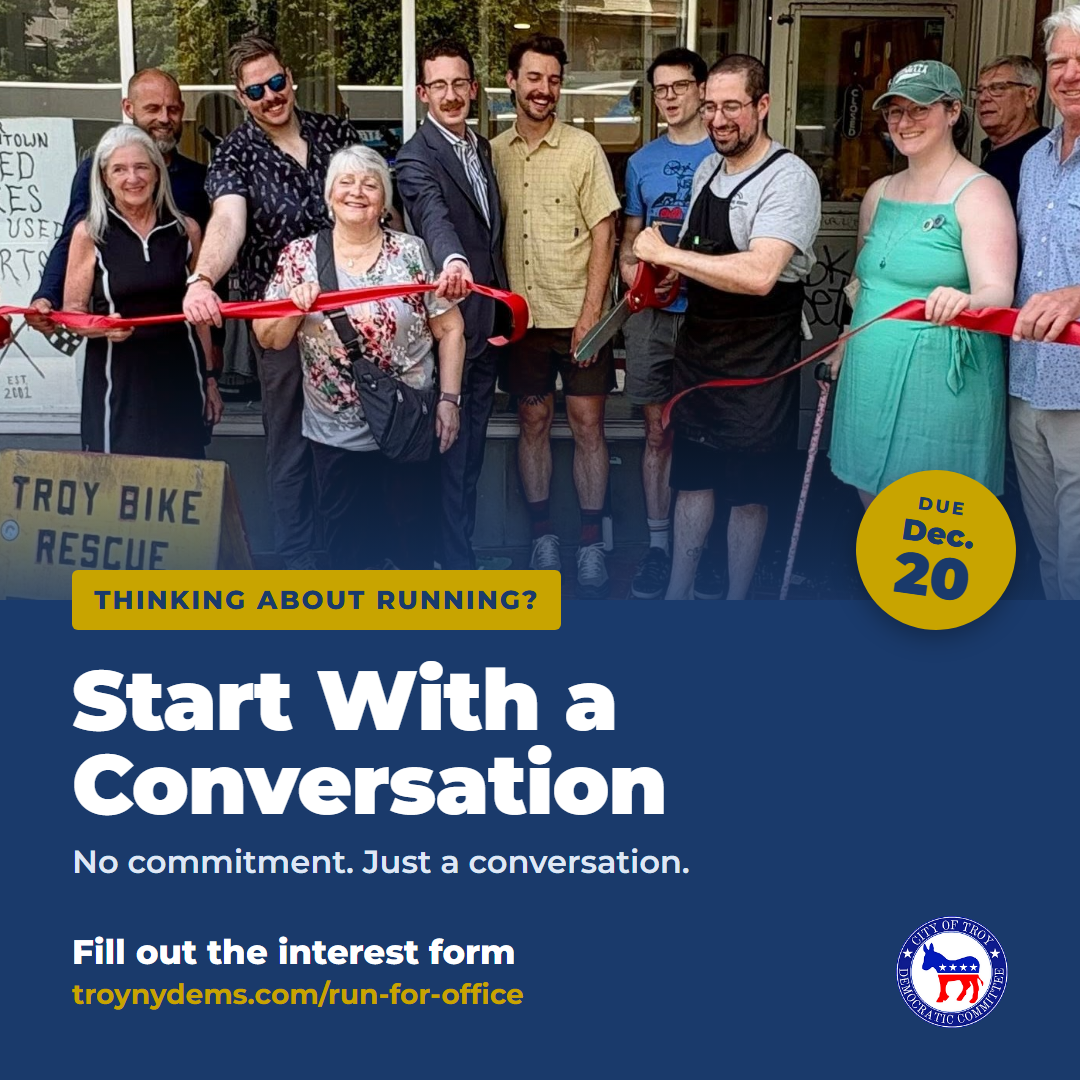
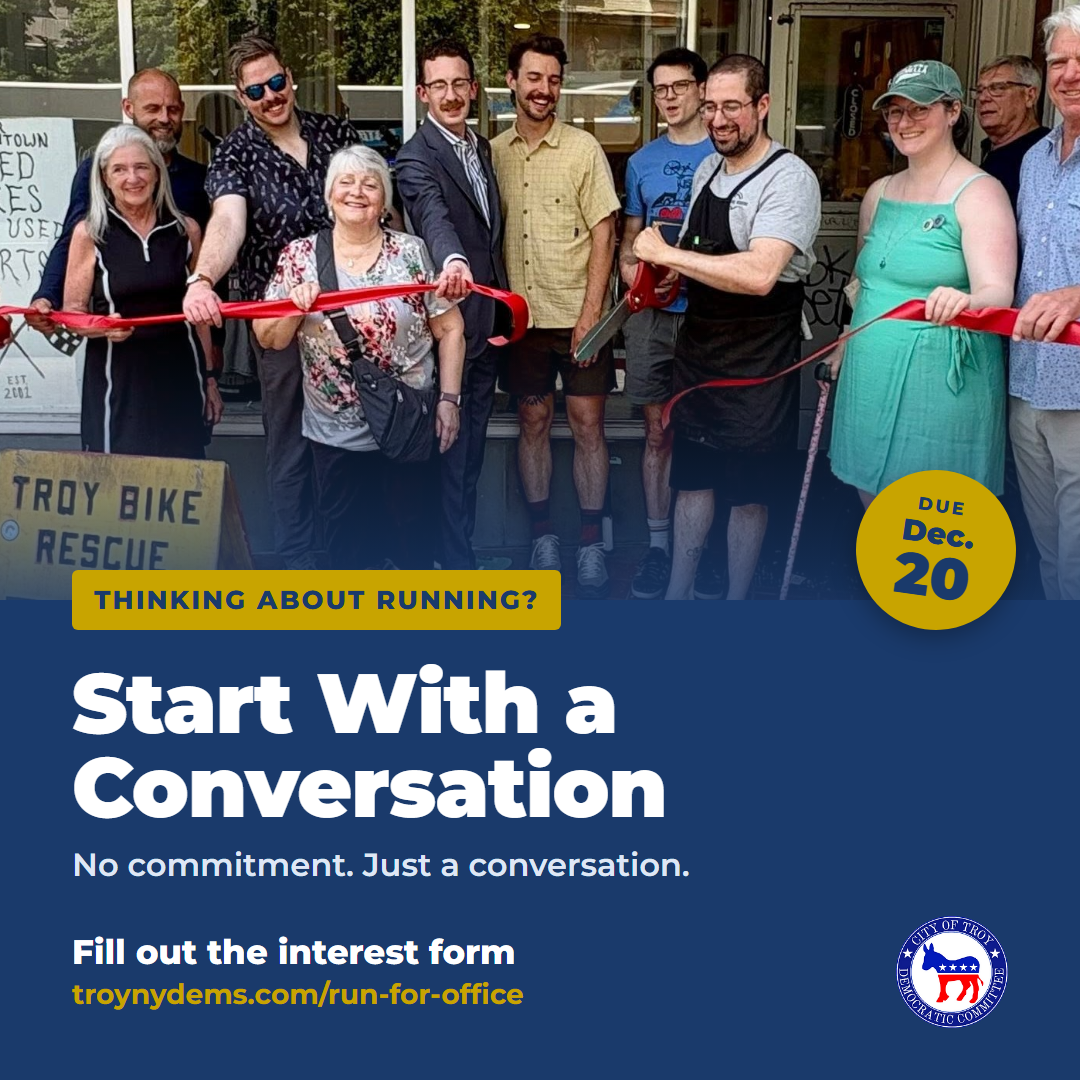
Center headline and subtitle in run-for-office graphics
The headline block now sits evenly between the gold label and the footer instead of leaving a gap above the footer.

diff --git a/run-for-office-posts/template.html b/run-for-office-posts/template.html
@@ -15,9 +15,10 @@ body{background:#1a3a6b;font-family:Montserrat,sans-serif;color:#fff;position:re
 .date .d{font-weight:900;font-size:58px;line-height:.95}
 .panel{position:absolute;left:0;right:0;top:__PH__px;bottom:0;padding:0 72px 52px;display:flex;flex-direction:column}
 .kicker{align-self:flex-start;margin-top:-30px;background:#C8A400;color:#1a3a6b;font-weight:800;font-size:26px;letter-spacing:.08em;text-transform:uppercase;padding:14px 22px;border-radius:6px;position:relative;z-index:2}
-h1{font-weight:900;font-size:__HS__px;line-height:1.0;margin-top:28px;letter-spacing:-.01em}
+.msg{flex:1;display:flex;flex-direction:column;justify-content:center;padding:24px 0}
+h1{font-weight:900;font-size:__HS__px;line-height:1.0;letter-spacing:-.01em}
 .sub{font-weight:600;font-size:32px;line-height:1.25;margin-top:16px;color:#dfe7f5}
-.foot{margin-top:auto;display:flex;align-items:center;justify-content:space-between;gap:24px}
+.foot{display:flex;align-items:center;justify-content:space-between;gap:24px}
 .cta{font-weight:800;font-size:34px;line-height:1.15}
 .cta span{display:block;color:#C8A400;font-weight:700;font-size:28px;margin-top:6px}
 .foot img{width:112px;height:112px;object-fit:contain;flex:none}
@@ -25,6 +26,6 @@ h1{font-weight:900;font-size:__HS__px;line-height:1.0;margin-top:28px;letter-spa
 <div class="photo __FIT__"><img class="bg" src="__PHOTO__" alt=""><img class="fg" src="__PHOTO__" alt=""></div>
 <div class="date"><div class="t">Due</div><div class="m">Dec.</div><div class="d">20</div></div>
 <div class="panel">
-<div class="kicker">__KICKER__</div><h1>__HEADLINE__</h1><div class="sub">__SUB__</div>
+<div class="kicker">__KICKER__</div><div class="msg"><h1>__HEADLINE__</h1><div class="sub">__SUB__</div></div>
 <div class="foot"><div class="cta">__CTA__<span>troynydems.com/run-for-office</span></div><img src="logo.png" alt=""></div>
 </div></body></html>
